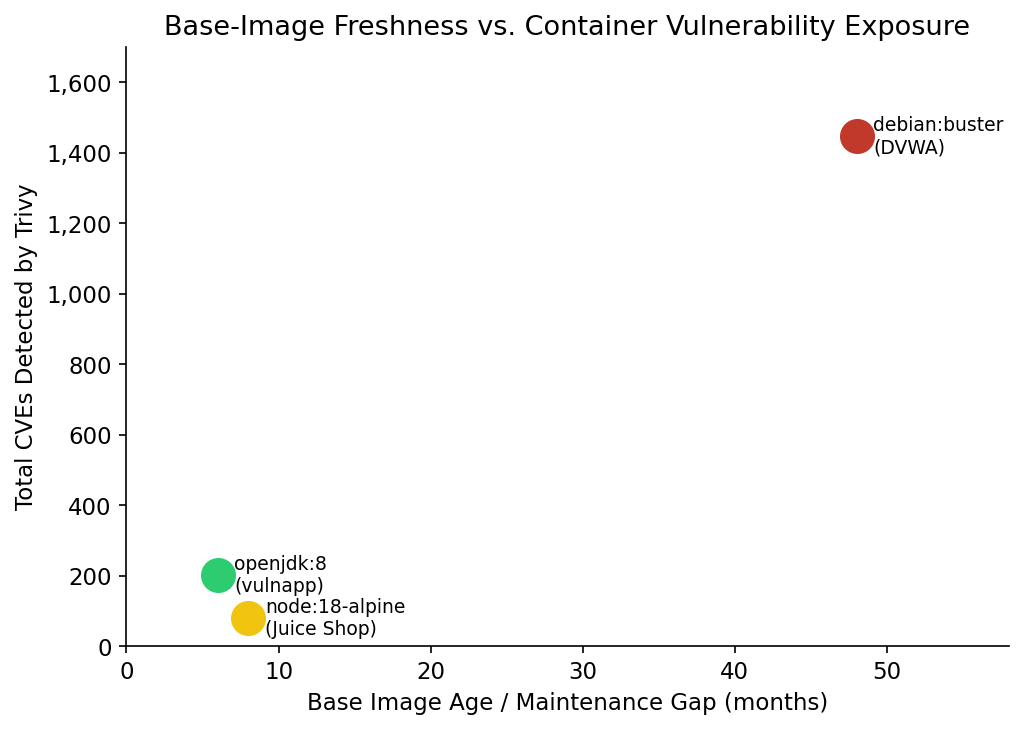
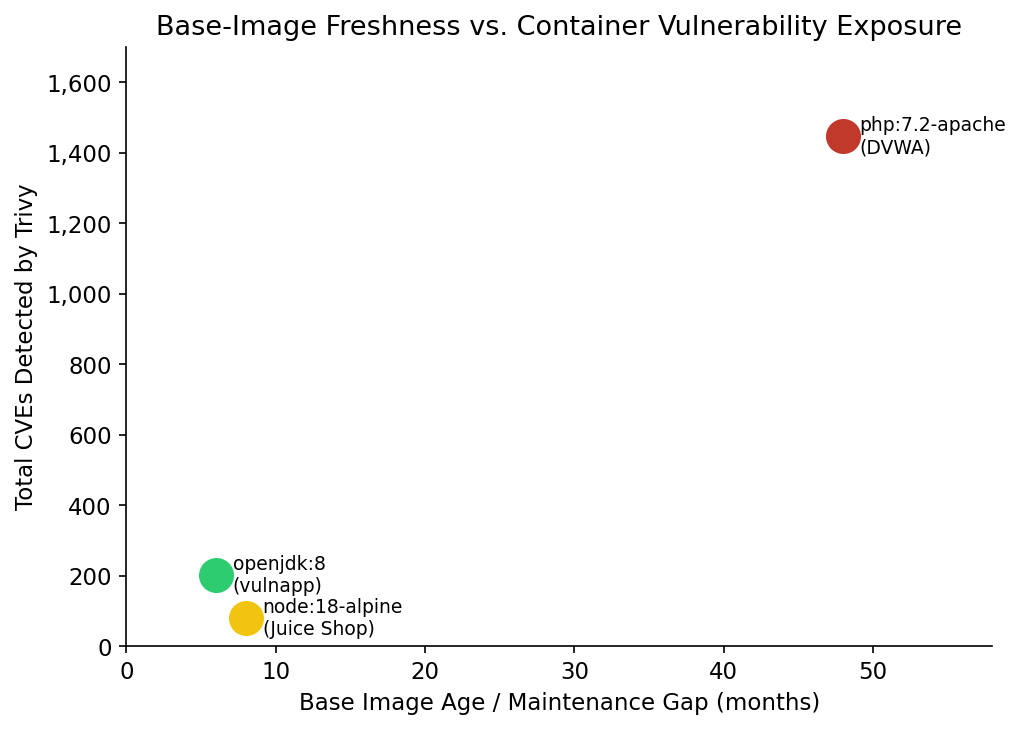
Fix Fig4 DVWA label: debian:buster -> php:7.2-apache to match Table II

diff --git a/scripts/generate-figures.py b/scripts/generate-figures.py
@@ -281,7 +281,7 @@ print("  -> figures/fig5_opa_gate_decisions.pdf")
 # ─────────────────────────────────────────────────────────────────────────────
 print("Generating Figure 6: Base-Image Freshness vs CVE Count...")
 
-base_images = ["openjdk:8\n(vulnapp)", "node:18-alpine\n(Juice Shop)", "debian:buster\n(DVWA)"]
+base_images = ["openjdk:8\n(vulnapp)", "node:18-alpine\n(Juice Shop)", "php:7.2-apache\n(DVWA)"]
 # approximate age in months at time of scan
 age_months = [6, 8, 48]   # temurin 17 actively maintained; node 18 LTS; debian buster EOL ~2022
 total_cves  = [3+34+164, 7+42+32, 254+551+642]
